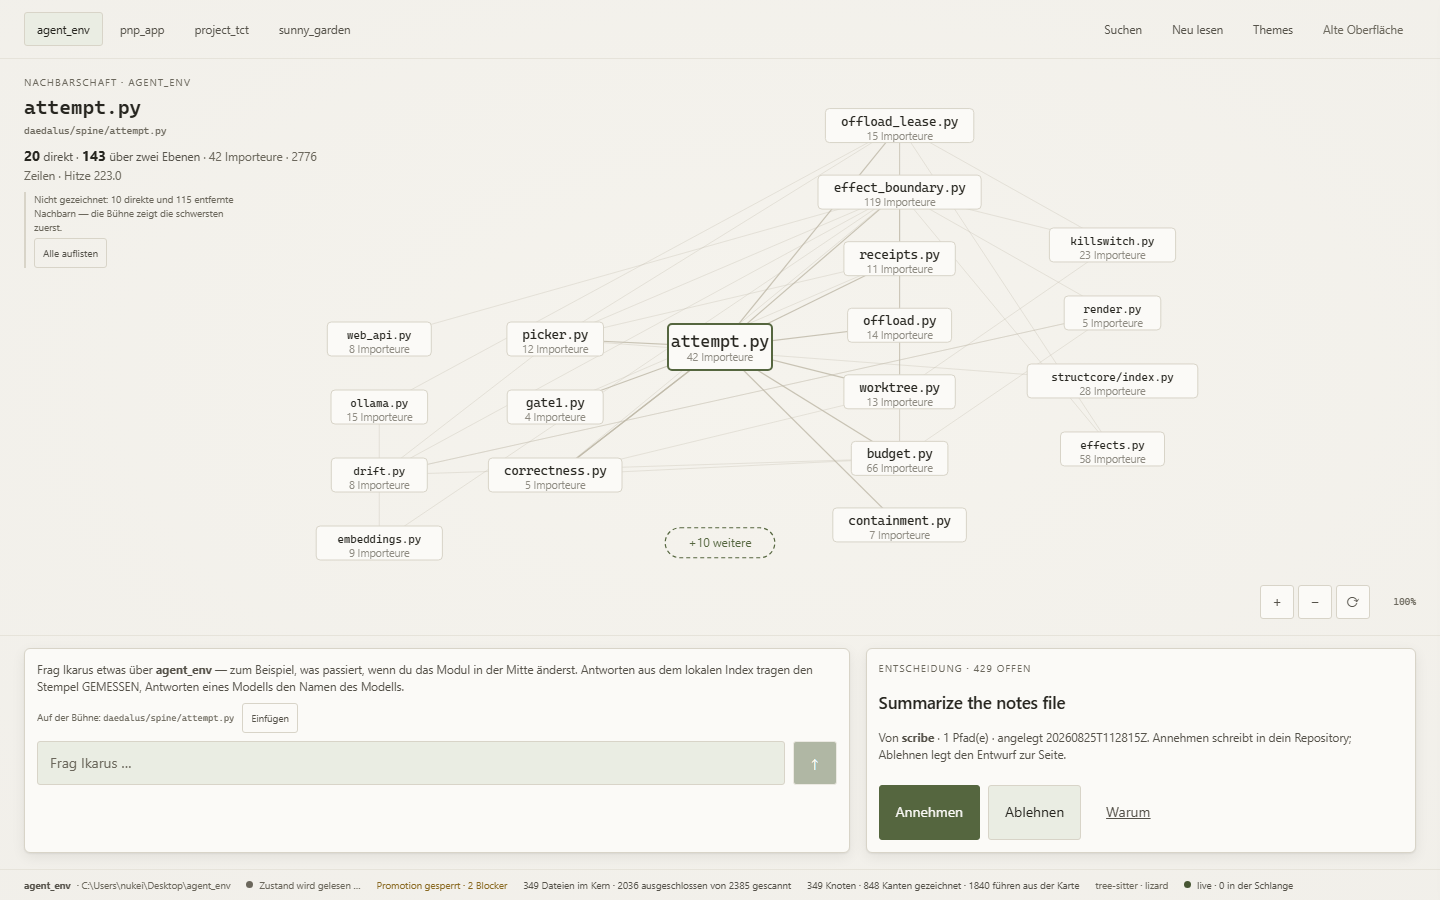
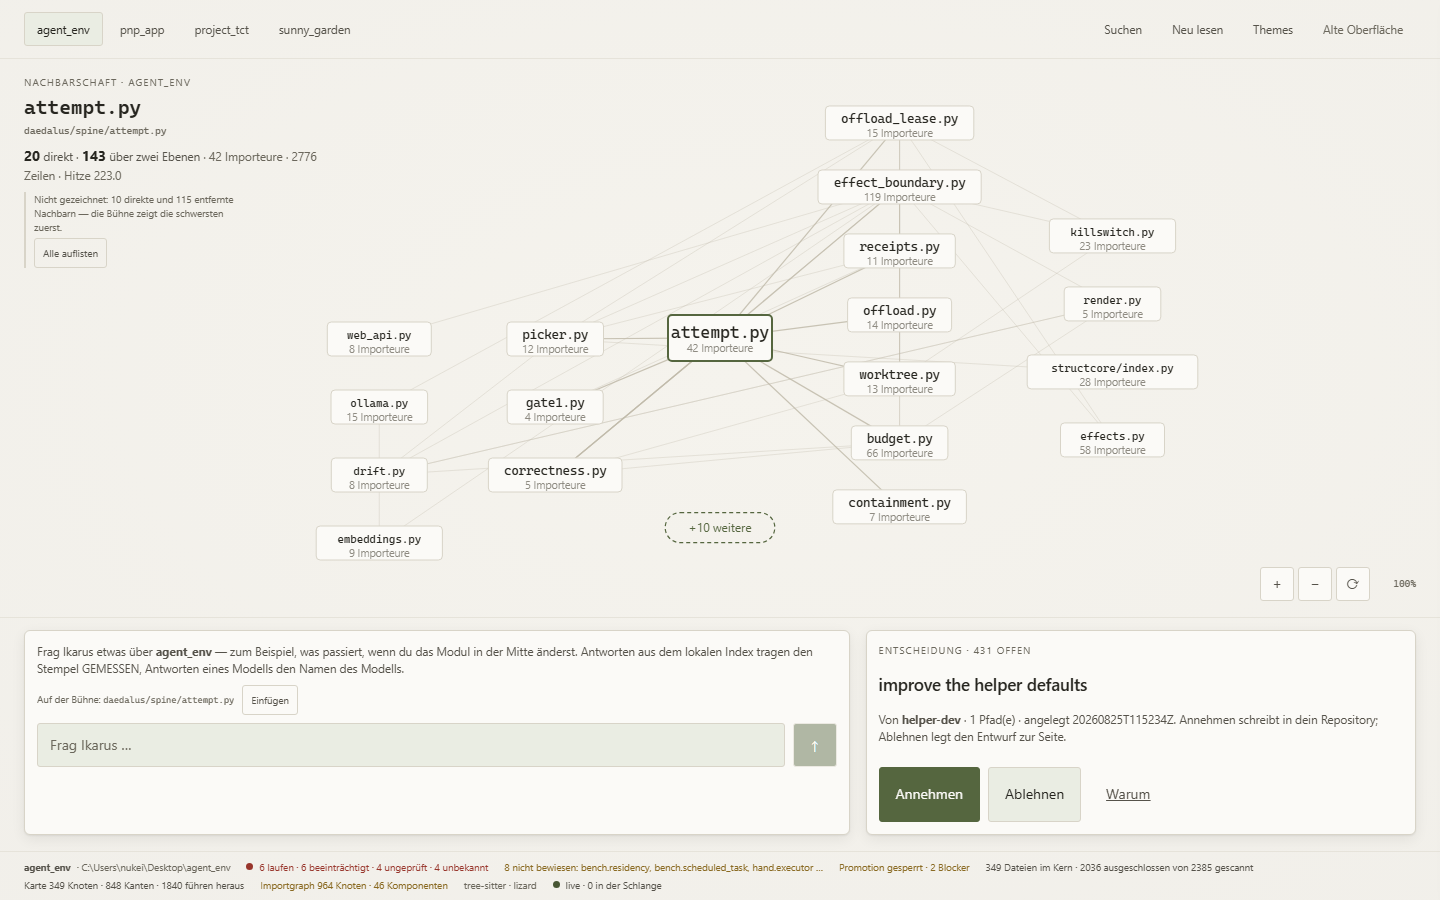
feat(web): /api/topology gets its first caller, and it has something to say
That endpoint had zero callers anywhere in this repository, which
docs/architecture-narrative.md has been recording as drift for weeks.
Wired into the cockpit's state line, it answers a question the drawn map
cannot: whether the import graph is one thing or many.

For agent_env it is 46 things [MEASURED 2026-08-25]. Algebraic
connectivity 0.0, cut edges 0, and the backend falls back honestly to
`method: connected_components` because "the graph is disconnected; no
unique Fiedler vector exists". That also explains the 1840 edges the map
reports as leading off it.

The two graph counts now carry labels -- "Karte 349 Knoten" beside
"Importgraph 964 Knoten" -- because the map is the heat-ranked, capped
subset of the index and the topology is the whole undirected projection.
Two unlabelled numbers for "the graph" on one bar is how a reader ends
up trusting whichever they read first.

The shots are retaken, and this time the state line has settled: every
one of the six now shows the real health verdict (6 working, 6 degraded,
4 unexercised, 4 unknown, 8 not proven, named) instead of "Zustand wird
gelesen". The shooter waits for it on the warm-up load too -- reloading
does not cancel an in-flight request server-side, so the next page's
health call queued behind an answer nobody would read, which is why the
first theme and only the first kept being shot unread.

Evidence: 7/7 cockpit specs green; tsc clean; zero console errors across
[…]

diff --git a/apps/web/src/cockpit/StatusLine.tsx b/apps/web/src/cockpit/StatusLine.tsx
@@ -1,5 +1,5 @@
 import type { HealthPayload } from '../api';
-import type { GovernancePayload, StructurePayload } from '../types';
+import type { GovernancePayload, StructurePayload, TopologyPayload } from '../types';
 
 /**
  * One line of state, and every item in it is a fact somebody can check.
@@ -17,6 +17,7 @@ export interface StatusLineProps {
   healthError?: string;
   governance?: GovernancePayload;
   structure?: StructurePayload;
+  topology?: TopologyPayload;
   inFlight?: number;
   queued?: number;
   streamLive?: boolean;
@@ -44,6 +45,7 @@ export function StatusLine({
   healthError,
   governance,
   structure,
+  topology,
   inFlight,
   queued,
   streamLive,
@@ -88,11 +90,30 @@ export function StatusLine({
         </span>
       ) : null}
 
+      {/* Labelled "Karte", because the topology item beside it reports a
+          DIFFERENT graph with a bigger node count. Two unlabelled numbers for
+          "the graph" on one bar is how a reader ends up trusting whichever they
+          read first. */}
       {graph ? (
-        <span className="status-item">
-          {graph.nodes.length} Knoten · {graph.edges.length} Kanten gezeichnet
-          {graph.n_edges_offmap ? ` · ${graph.n_edges_offmap} führen aus der Karte` : ''}
-          {graph.truncated ? ' · Karte beschnitten' : ''}
+        <span
+          className="status-item"
+          title="Die gezeichnete Karte ist die nach Hitze gerankte, gedeckelte Teilmenge des Index — nicht der ganze Importgraph."
+        >
+          Karte {graph.nodes.length} Knoten · {graph.edges.length} Kanten
+          {graph.n_edges_offmap ? ` · ${graph.n_edges_offmap} führen heraus` : ''}
+          {graph.truncated ? ' · beschnitten' : ''}
+        </span>
+      ) : null}
+
+      {topology?.topology?.available ? (
+        <span
+          className={`status-item ${topology.topology.connected_components > 1 ? 'warn' : ''}`}
+          title={`${topology.topology.graph_type}. Methode: ${topology.topology.method} — ${topology.topology.reason}`}
+        >
+          Importgraph {topology.topology.node_count} Knoten ·{' '}
+          {topology.topology.connected_components === 1
+            ? 'zusammenhängend'
+            : `${topology.topology.connected_components} Komponenten`}
         </span>
       ) : null}
 

diff --git a/apps/web/src/cockpit/Cockpit.tsx b/apps/web/src/cockpit/Cockpit.tsx
@@ -4,13 +4,14 @@ import {
   getHealth,
   getProjects,
   getStructure,
+  getTopology,
   isBackendDown,
   openEventStream,
   type HealthPayload
 } from '../api';
 import { useThemes } from '../theme/ThemeProvider';
 import { ThemeStudio } from '../theme/ThemeStudio';
-import type { GovernancePayload, ProjectRow, StructurePayload } from '../types';
+import type { GovernancePayload, ProjectRow, StructurePayload, TopologyPayload } from '../types';
 import { Conversation } from './Conversation';
 import { Decision } from './Decision';
 import { buildIndex, defaultFocus, neighbourhood, rankModules, searchModules, shortLabel } from './graph';
@@ -37,6 +38,7 @@ export function Cockpit() {
   const [project, setProject] = useState('');
   const [structure, setStructure] = useState<StructurePayload | undefined>();
   const [structureFor, setStructureFor] = useState('');
+  const [topology, setTopology] = useState<TopologyPayload | undefined>();
   const [loading, setLoading] = useState(false);
   const [error, setError] = useState('');
   const [offline, setOffline] = useState(false);
@@ -120,6 +122,24 @@ export function Cockpit() {
   useEffect(() => {
     if (project) void loadStructure(project);
   }, [project, loadStructure]);
+
+  /**
+   * The spectral read of the import graph, fetched AFTER the map so it can
+   * never delay the picture. It answers a question the map cannot: whether the
+   * graph is one thing or many. On this repository it is 46 things, which is
+   * also why 1840 edges lead off the drawn map.
+   */
+  useEffect(() => {
+    if (!structureFor) return;
+    let alive = true;
+    setTopology(undefined);
+    getTopology(structureFor)
+      .then((p) => alive && setTopology(p))
+      .catch(() => alive && setTopology(undefined));
+    return () => {
+      alive = false;
+    };
+  }, [structureFor]);
 
   /* ---- health + governance ---- */
   useEffect(() => {
@@ -413,6 +433,7 @@ export function Cockpit() {
           healthError={healthError}
           governance={governance}
           structure={structure}
+          topology={topology}
           inFlight={live.inFlight}
           queued={live.queued}
           streamLive={streamLive}

diff --git a/apps/web/src/api.ts b/apps/web/src/api.ts
@@ -1,4 +1,4 @@
-import type { ApiEnvelope, BootstrapPayload, ControlPlanePayload, DashboardPayload, DistillPayload, EffortLevel, GovernancePayload, HierarchyPayload, IkarusAskPayload, IkarusChatPayload, LiveEventName, ProjectRow, RuntimeStatusPayload, RuntimeTestPayload, StructurePayload } from './types';
+import type { ApiEnvelope, BootstrapPayload, ControlPlanePayload, DashboardPayload, DistillPayload, EffortLevel, GovernancePayload, HierarchyPayload, IkarusAskPayload, IkarusChatPayload, LiveEventName, ProjectRow, RuntimeStatusPayload, RuntimeTestPayload, StructurePayload, TopologyPayload } from './types';
 
 /**
  * Why a request failed, kept SEPARATE from the message.
@@ -629,6 +629,17 @@ export function getStructure(project: string, refresh = false): Promise<Structur
 }
 
 /** Distill a target module/symbol down to a minimal review slice. */
+/**
+ * The spectral read of the import graph. Cheap once the index is warm (it
+ * reuses the same scoped index as `/api/structure`), and until 2026-08-25 it
+ * had no caller anywhere in this repository.
+ */
+export function getTopology(project: string, refresh = false): Promise<TopologyPayload> {
+  const qs = new URLSearchParams({ project });
+  if (refresh) qs.set('refresh', '1');
+  return request<TopologyPayload>(`/api/topology?${qs.toString()}`, undefined, 120_000);
+}
+
 export function distill(project: string, target: string): Promise<DistillPayload> {
   return request<DistillPayload>('/api/distill', {
     method: 'POST',

diff --git a/apps/web/src/types.ts b/apps/web/src/types.ts
@@ -288,6 +288,37 @@ export interface StructureGraph {
   truncated: boolean;
 }
 
+/**
+ * `GET /api/topology` — the spectral read of the import graph.
+ *
+ * This is a DIFFERENT graph from `StructureGraph`: an undirected projection of
+ * the directed import edges over the whole scanned index, where the map the
+ * stage draws is the heat-ranked, capped subset. The two report different node
+ * counts on purpose and the cockpit labels both, because one number quietly
+ * replacing the other is how a surface starts describing a codebase it never
+ * looked at.
+ *
+ * `method` and `reason` are the honest half: when the graph is disconnected
+ * there is no unique Fiedler vector, and the backend says so instead of
+ * returning a partition it could not justify.
+ */
+export interface TopologyPayload extends ApiEnvelope {
+  topology: {
+    available: boolean;
+    graph_type: string;
+    node_count: number;
+    edge_count: number;
+    connected_components: number;
+    method: string;
+    reason: string;
+    partition_a: string[];
+    partition_b: string[];
+    cut_edges: number;
+    conductance: number;
+    algebraic_connectivity: number;
+  };
+}
+
 export interface StructurePayload {
   ok: boolean;
   project: string;
